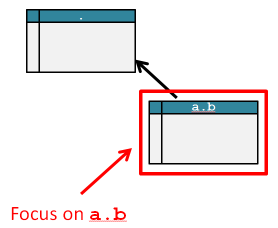
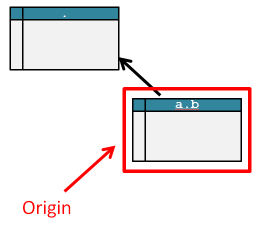
docs seems good

Changed region(s): [[0.0307, 0.0, 0.9808, 0.8673], [0.0307, 0.8673, 0.4598, 0.9912]]

diff --git a/docs/Perspective.md b/docs/Perspective.md
@@ -2,52 +2,52 @@
 
 # Column Perspectives in a Snowflake Schema
 
-This document is incomplete, with mistakes.
-
 ## Justification
 
-The snowflake concept is an attempt to model the intersection between JSON documents and relational databases. Hopefully, this model will be useful for conceptualizing a document-relational map (DRM) while we program.
+The snowflake concept is an attempt to model the intersection between JSON documents and relational databases. Hopefully, this model will be useful for coding a document-relational map (D-R map) for [jx-sqlite.](https://github.com/mozilla/jx-sqlite)
 
 ## Definitions
 
-A snowflake is a set of tables, and the hierarchical foreign relations between them, where one table is deemed the key "fact table". Any relational database can have multiple snowflake interpretations; which is likely necessary if we want to cover the whole of a database. There is a lot we can say about covering relational databases, but we will leave that exciting topic for later.  
+A snowflake is a set of tables, plus the set of hierarchical foreign relations between them. There is one table that is deemed the key "fact table". Any relational database can have multiple snowflake interpretations; which is likely necessary if we want to cover the whole of a database. There is a lot we can say about covering relational databases, but we will leave that exciting topic for later.  
 
-### Path taken to row is important
+**Path taken to row is important**
 
-The snowflake assumes the database is denormalized; every fact in the fact table and all its foreign rows, are not shared with any other fact. This assumption is only a conceptual model, an not seriously expected in practice. A database is expected to be normalized for minimal redundancy. It is important not to talk about any row in a table, but rather the path taken along the foreign relations; starting from the fact to the row in question. 
+The snowflake assumes the data is denormalized in document form; every fact in the fact table and all its foreign rows, are not shared with any other fact. This assumption is only a conceptual model, an not seriously expected in practice; A database is to be normalized for minimal redundancy. It is important not to talk about any row in a table, but rather the path taken along the foreign relations; starting from the fact to the row in question. 
 
-### Paths to tables
+**Paths to tables**
 
-The path along the foreign keys, from the fact table to any other table, is important. Tables can not be referred to by name, they must be referred to by path. The snowflake model calls this the `nested_path` of a table. "nested" refers to nested JSON documents
+The path along the foreign keys, from the fact table to any other table, is important. We can not refer to tables by name, rather by path. The snowflake model calls this the `nested_path` of a table. "nested" refers to nested objects found in JSON arrays.
 
-### Perspectives inside a snowflake
+## Perspectives inside a snowflake
 
-A snowflake is a set of database tables, and it also provides a way to talk about querying those tables in a denormalized perspective. We can query any of the tables in the snowflake as if it was a fact table, for clarity we will called this the "focus table": Any table in the snowflake can act as a basis for a perspective; the tables in the snowflake have names relative to that focus.
+We can query any table in the snowflake as if it was a fact table, for clarity we will called this the "origin": Any table in the snowflake can act as the origin of a  perspective; the tables and columns in the snowflake have names relative to the origin.
 
 ----------
 
-**Example: Nested Objects (one to many)**
+
+**Example 1: Nested Objects (one to many)**
 
 The simplest example of perspective is a document with nested objects: 
 
-	[
-	    {
-	        "a": {
-	            "b": [
-					{"x": 1},
-					{"x": 2}
-				],
-				"x": 3
-			},
-			"x": 4
-		}
-	]
+    [
+        {
+            "a": {
+                "b": [
+                    {"x": 1},
+                    {"x": 2}
+                ],
+                "x": 3
+            },
+            "x": 4
+        }
+    ]
 
 ...and here is the schema the document came from
 
 ![schema](nested1.png)
 
 **Table `.`**
+
 | `_id` |  `x`  |  `a.x`  |
 |-------|-------|---------|
 |   1   |   4   |    1    |
@@ -59,54 +59,54 @@ The simplest example of perspective is a document with nested objects:
 |   2   |     1     |     0    |   1   |
 |   3   |     1     |     1    |   2   |
 
-There are points I should make here.
+There are some important notes:
 
 * The tables are all given relative names: The fact table is named dot (`.`).
 * Arrows indicate foreign key relations: The table at the tail of the arrow is assumed to have a property that refers to the table at the head
-* The foreign keys are not shown in the document: If the relational database uses foreign keys to only indicate relations, then it is good remove those properties that have no other meaning. Sometimes the foreign key is used for business logic, and must be exposed.
+* The foreign keys are not shown in the document: If the relational database uses foreign keys to only indicate relations, then we can remove those properties without loss of information: The structure is in the JSON document. Sometimes the foreign key is used for business logic, and must be exposed.
 
-Let us focus on `nested_path=["a.b", "."]`
+Let us use the origin with `nested_path=["a.b", "."]`. Notice the nested path is a list, in the direction of the relation.
 
 ![schema](nested2.png)
 
+Here are the records from that perspective:
 
+    [
+        {
+            "x": 1
+            "..": {
+                "a": {
+                    "b": [
+                        {"x": 1},
+                        {"x": 2}
+                    ],
+                    "x": 3
+                },
+                "x": 4
+            }
+        },
+        {
+            "x": 2
+            "..": {
+                "a": {
+                    "b": [
+                        {"x": 1},
+                        {"x": 2}
+                    ],
+                    "x": 3
+                },
+                "x": 4
+            }
+        }
+    ]
 
-	[
-		{
-			"x": 1
-			"..": {
-		    	"a": {
-		            "b": [
-						{"x": 1},
-						{"x": 2}
-					],
-					"x": 3
-				},
-				"x": 4
-			}
-		},
-		{
-			"x": 2
-			"..": {
-		    	"a": {
-		            "b": [
-						{"x": 1},
-						{"x": 2}
-					],
-					"x": 3
-				},
-				"x": 4
-			}
-		}
-	]
-
-Some liberty was taken here: The `..` property does not exist, it is shown to demonstrate the Snowflake schema uses "`..`" in the namespace to refer to the parent document.
+Some liberty was taken here: The `..` property does not actually exist; it is shown to demonstrate the Snowflake schema uses "`..`" in the namespace to refer to the parent document: In other words, you may refer to `..a.x` from the `a.b` origin. 
 
 ----------
 
-**Example: Reference (many to one)**
+**Example 2: Reference (many to one)**
 
-A normalized relational database can have foreign keys from the fact table to a lookup table; a many-to-one relation. No JSON document will can create such a relation because documents are denormalized entities, but a snowflake schema must be able to interpret all records in its schema as documents anyway.
+A normalized relational database can have foreign keys from the fact table to a lookup table; a many-to-one relation. No JSON document can create such a relation because documents are denormalized entities, but a snowflake schema must be able to interpret all records in its schema as documents. A snowflake will denormalize the schema.
 
 ![schema](ref1.png)
 
@@ -124,44 +124,45 @@ A normalized relational database can have foreign keys from the fact table to a 
 |   3   |   1   |
 
 
-We assume there is only one record in `e`, and let us focus on `nested_path=["e", "."]` 
+We assume there is only one record in `e`. We include the foreign key `_e` for clarity.
+
 
 ![schema](ref2.png)
 
-and show that record as JSON:
+Let us use origin of `nested_path=[".", "_e"]`. Notice the order of the list is in the direction of the relation. 
+ 
+We show that record as JSON:
 
+    {
+        "x": 1,
+        "..":[
+            {"x": 3},
+            {"x": 4}
+        ]
+    }
 
-	{
-		"x": 1,
-		"..":[
-			{"x": 3},
-			{"x": 4}
-		]
-	}
-
-More liberties:
-
-* The "`..`" property does not exist, it is used to demonstrate that you can access the fact table from the perspective of `e` using the snowflake schema.  
+Again, the "`..`" property does not exist, it is used to demonstrate that you can access the fact table from the perspective of `e` using the snowflake schema's namespace.
  
 ![schema](ref3.png)
 
 `nested_path=["."]`
 
-With a focus on our fact table (`.`), we see each of our fact records, along with the `e` property duplicated (denormalized).
+With the origin being our fact table (`.`), we see each of our fact records, along with the `e` property duplicated (denormalized).
 
-	[
-	    {
-	        "e": {"x": 1},
-			"x": 3
-		},
-	    {
-	        "e": {"x": 1},
-			"x": 4
-		}
-	]
+    [
+        {
+            "e": {"x": 1},
+            "x": 3
+        },
+        {
+            "e": {"x": 1},
+            "x": 4
+        }
+    ]
   
 
-Mapping from a relational database to a document, and back to a relational database, may not result in the same schema: These two documents will map easily to a single table:
+Mapping from a relational database to a document, and back to a relational database, may not result in the same schema: These two documents will map to a single table:
+
 
 | `_id` |  `x`  |  `e.x`  |
 |-------|-------|---------|
@@ -169,21 +170,24 @@ Mapping from a relational database to a document, and back to a relational datab
 |   1   |   4   |    1    |
 
 
-### Filesystem Metaphor
+### File system Metaphor
 
-It may help to use the unix filesystem as a metaphor: The tables are directories in that filesystem, The fact table is root (`/`), while the focus table is your current directory (`cwd`). You can refer to any file either in the absolute sense, from root, or in a relative sense, from `cwd`.  Each file has as many names as there are directories.
+It may help to use the file system as a metaphor: The tables are directories in that filesystem, The fact table is root (`/`), while the origin table is your current directory (`cwd`). You can refer to any file either in the absolute sense, from root, or in a relative sense, from `cwd`.
 
+## Referring to columns
 
-### Referring to columns
+Given our documents appear different based on the perspective, the columns in the snowflake can go by many aliases. In *Example 1* column `a.b.x` (column `x` in table `a.b`) can be referred to as simply `x` from the `a.b` perspective.  To capture these aliases the `Column.names` dict maps the nested path to the various aliases
 
-The fully qualified name of a column in the schema of a relational database can be given by `<table_name>.<column_name>`. This strategy does not work for a snowflake because paths are important.  We require a data structure that is able to represent the multiple names that can be given to a single column, based on the perspective we are interested in.  
+	Column(
+		names={
+			".": "a.b.x", 
+			"a.b": "x"
+		},
+        nested_path=["a.b", "."]
+	)
 
-The `nested_path` is the absolute reference to the database table the column is in.  And `names['.']` is set to the relative name of the database column. Other perspectives can markup that column with additional names    
+There may be some problems with the `names` attribute:
 
+* We only use the table name, not the whole nested path; we know path is important, which means there are snowflakes that this structure can not hold aliases for. Maybe this problem only shows itself when interpreting relational databases.
+* `names` might be functionally dependent on the (`names['.']`, `nested_path[0]`) pair; we may replace it with a `@property` 
 
-The 
-### 
-
-
-canonical snowflake
-    
